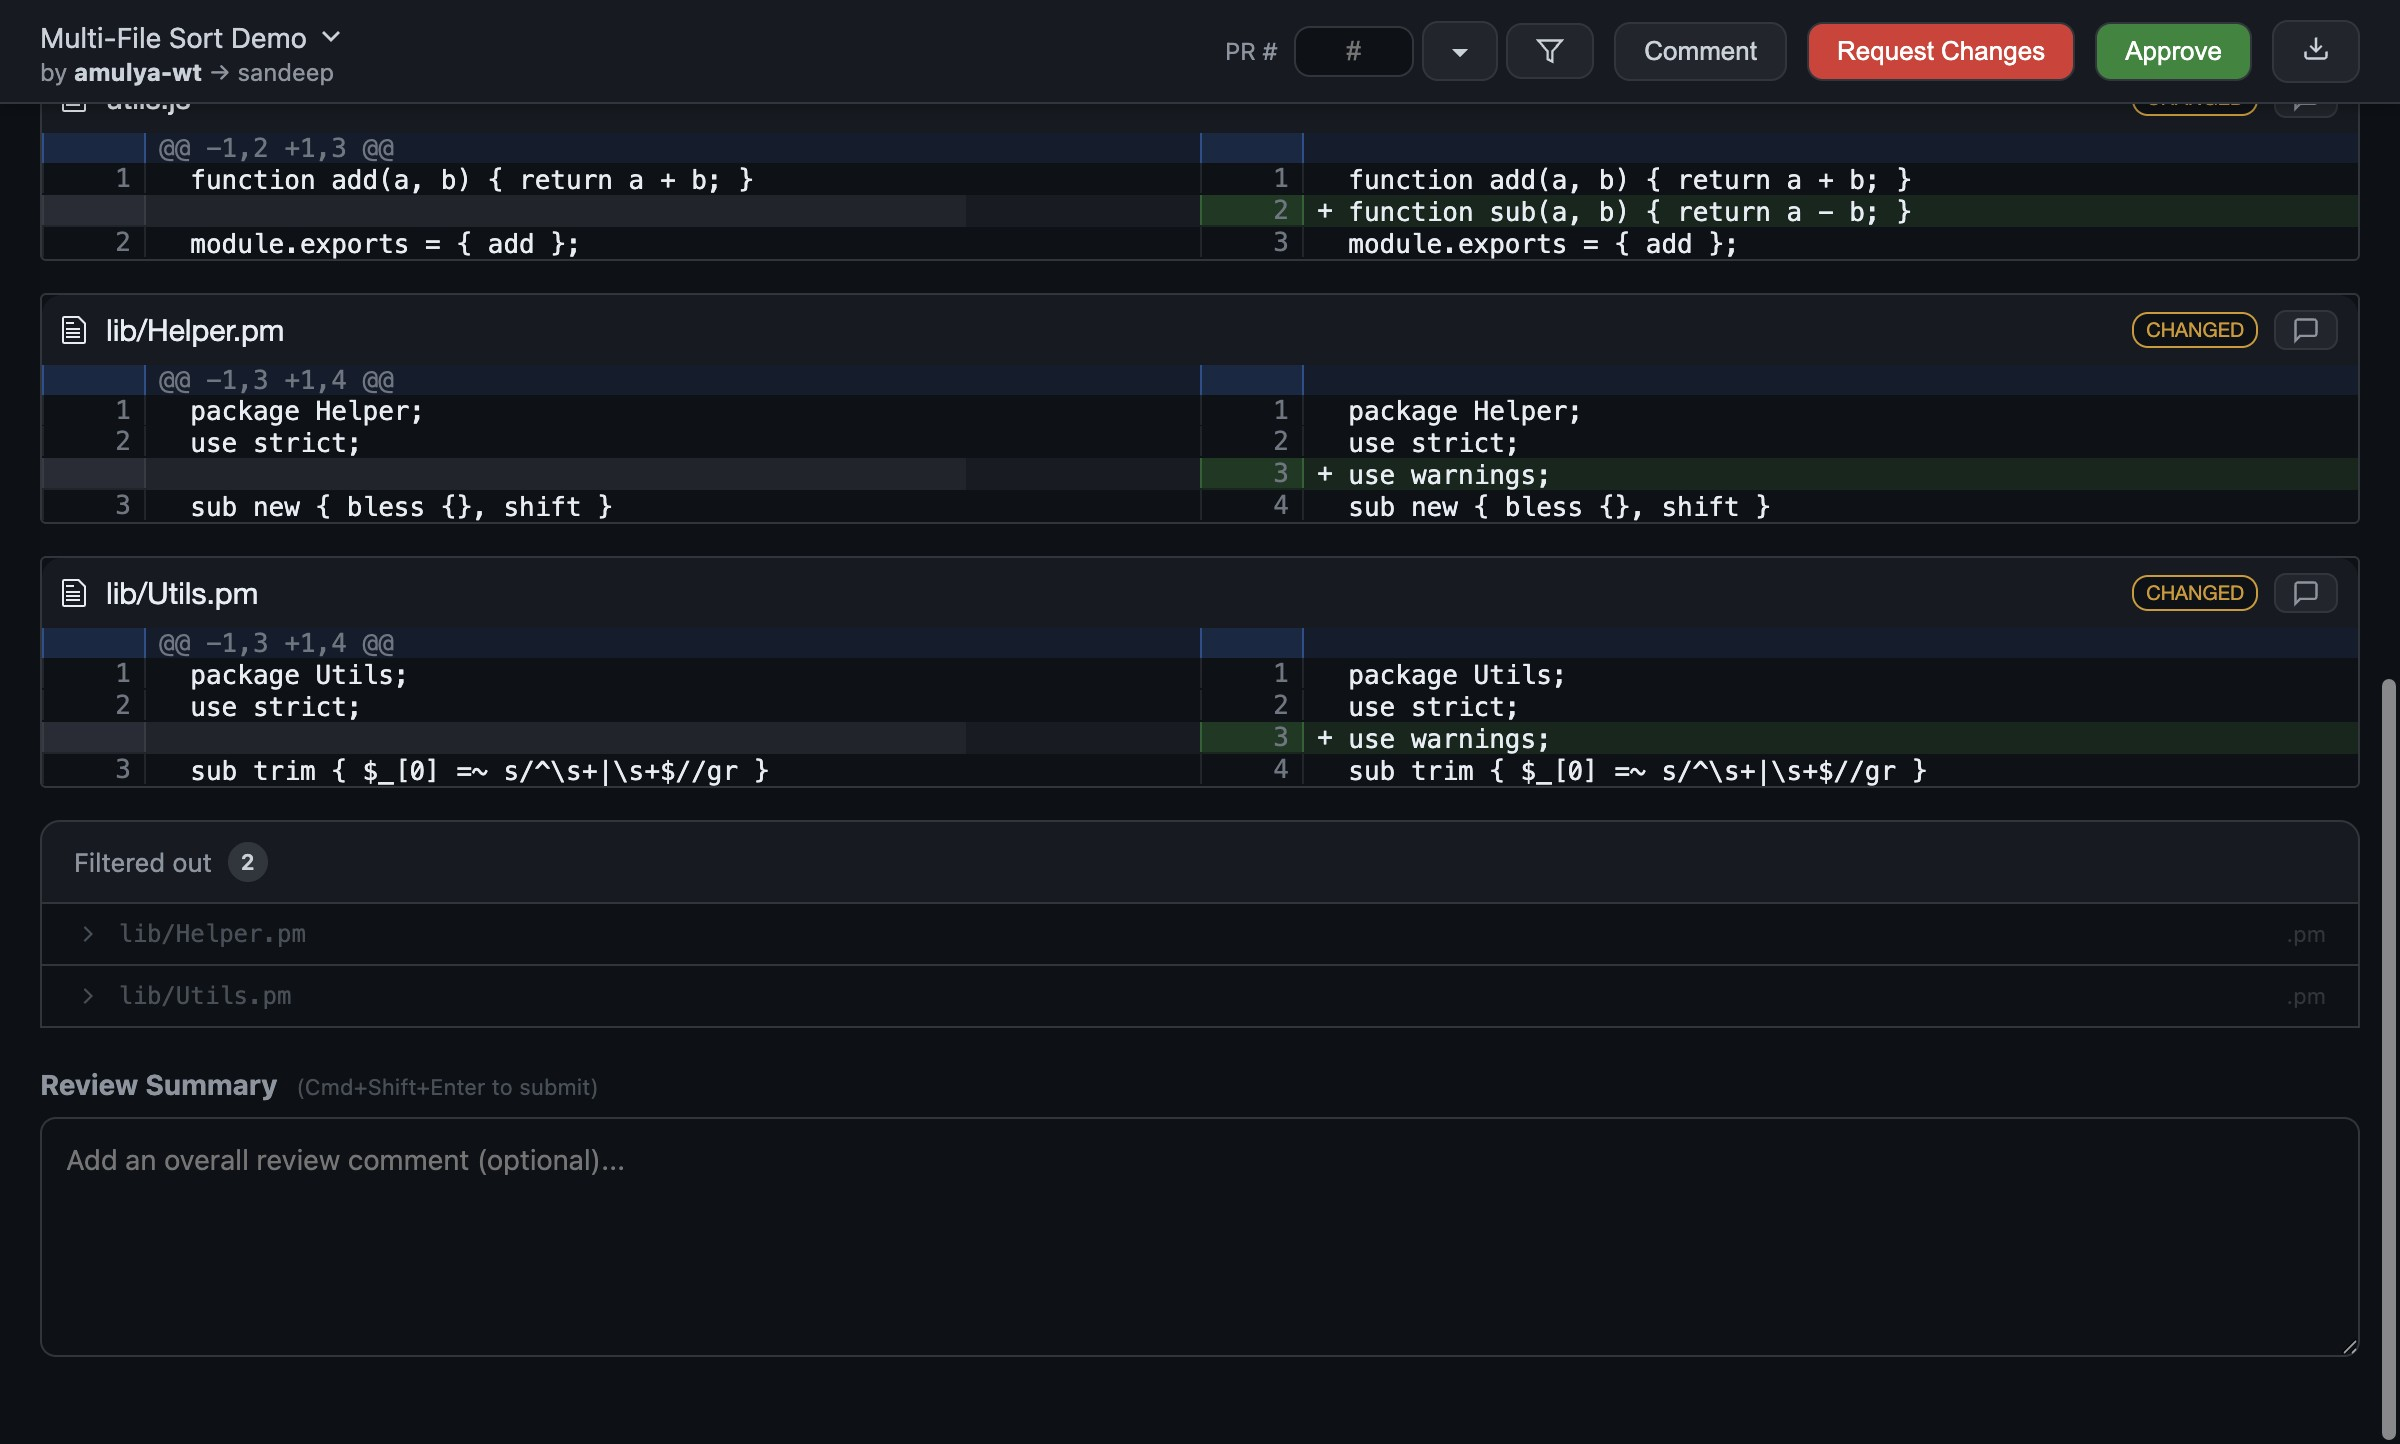
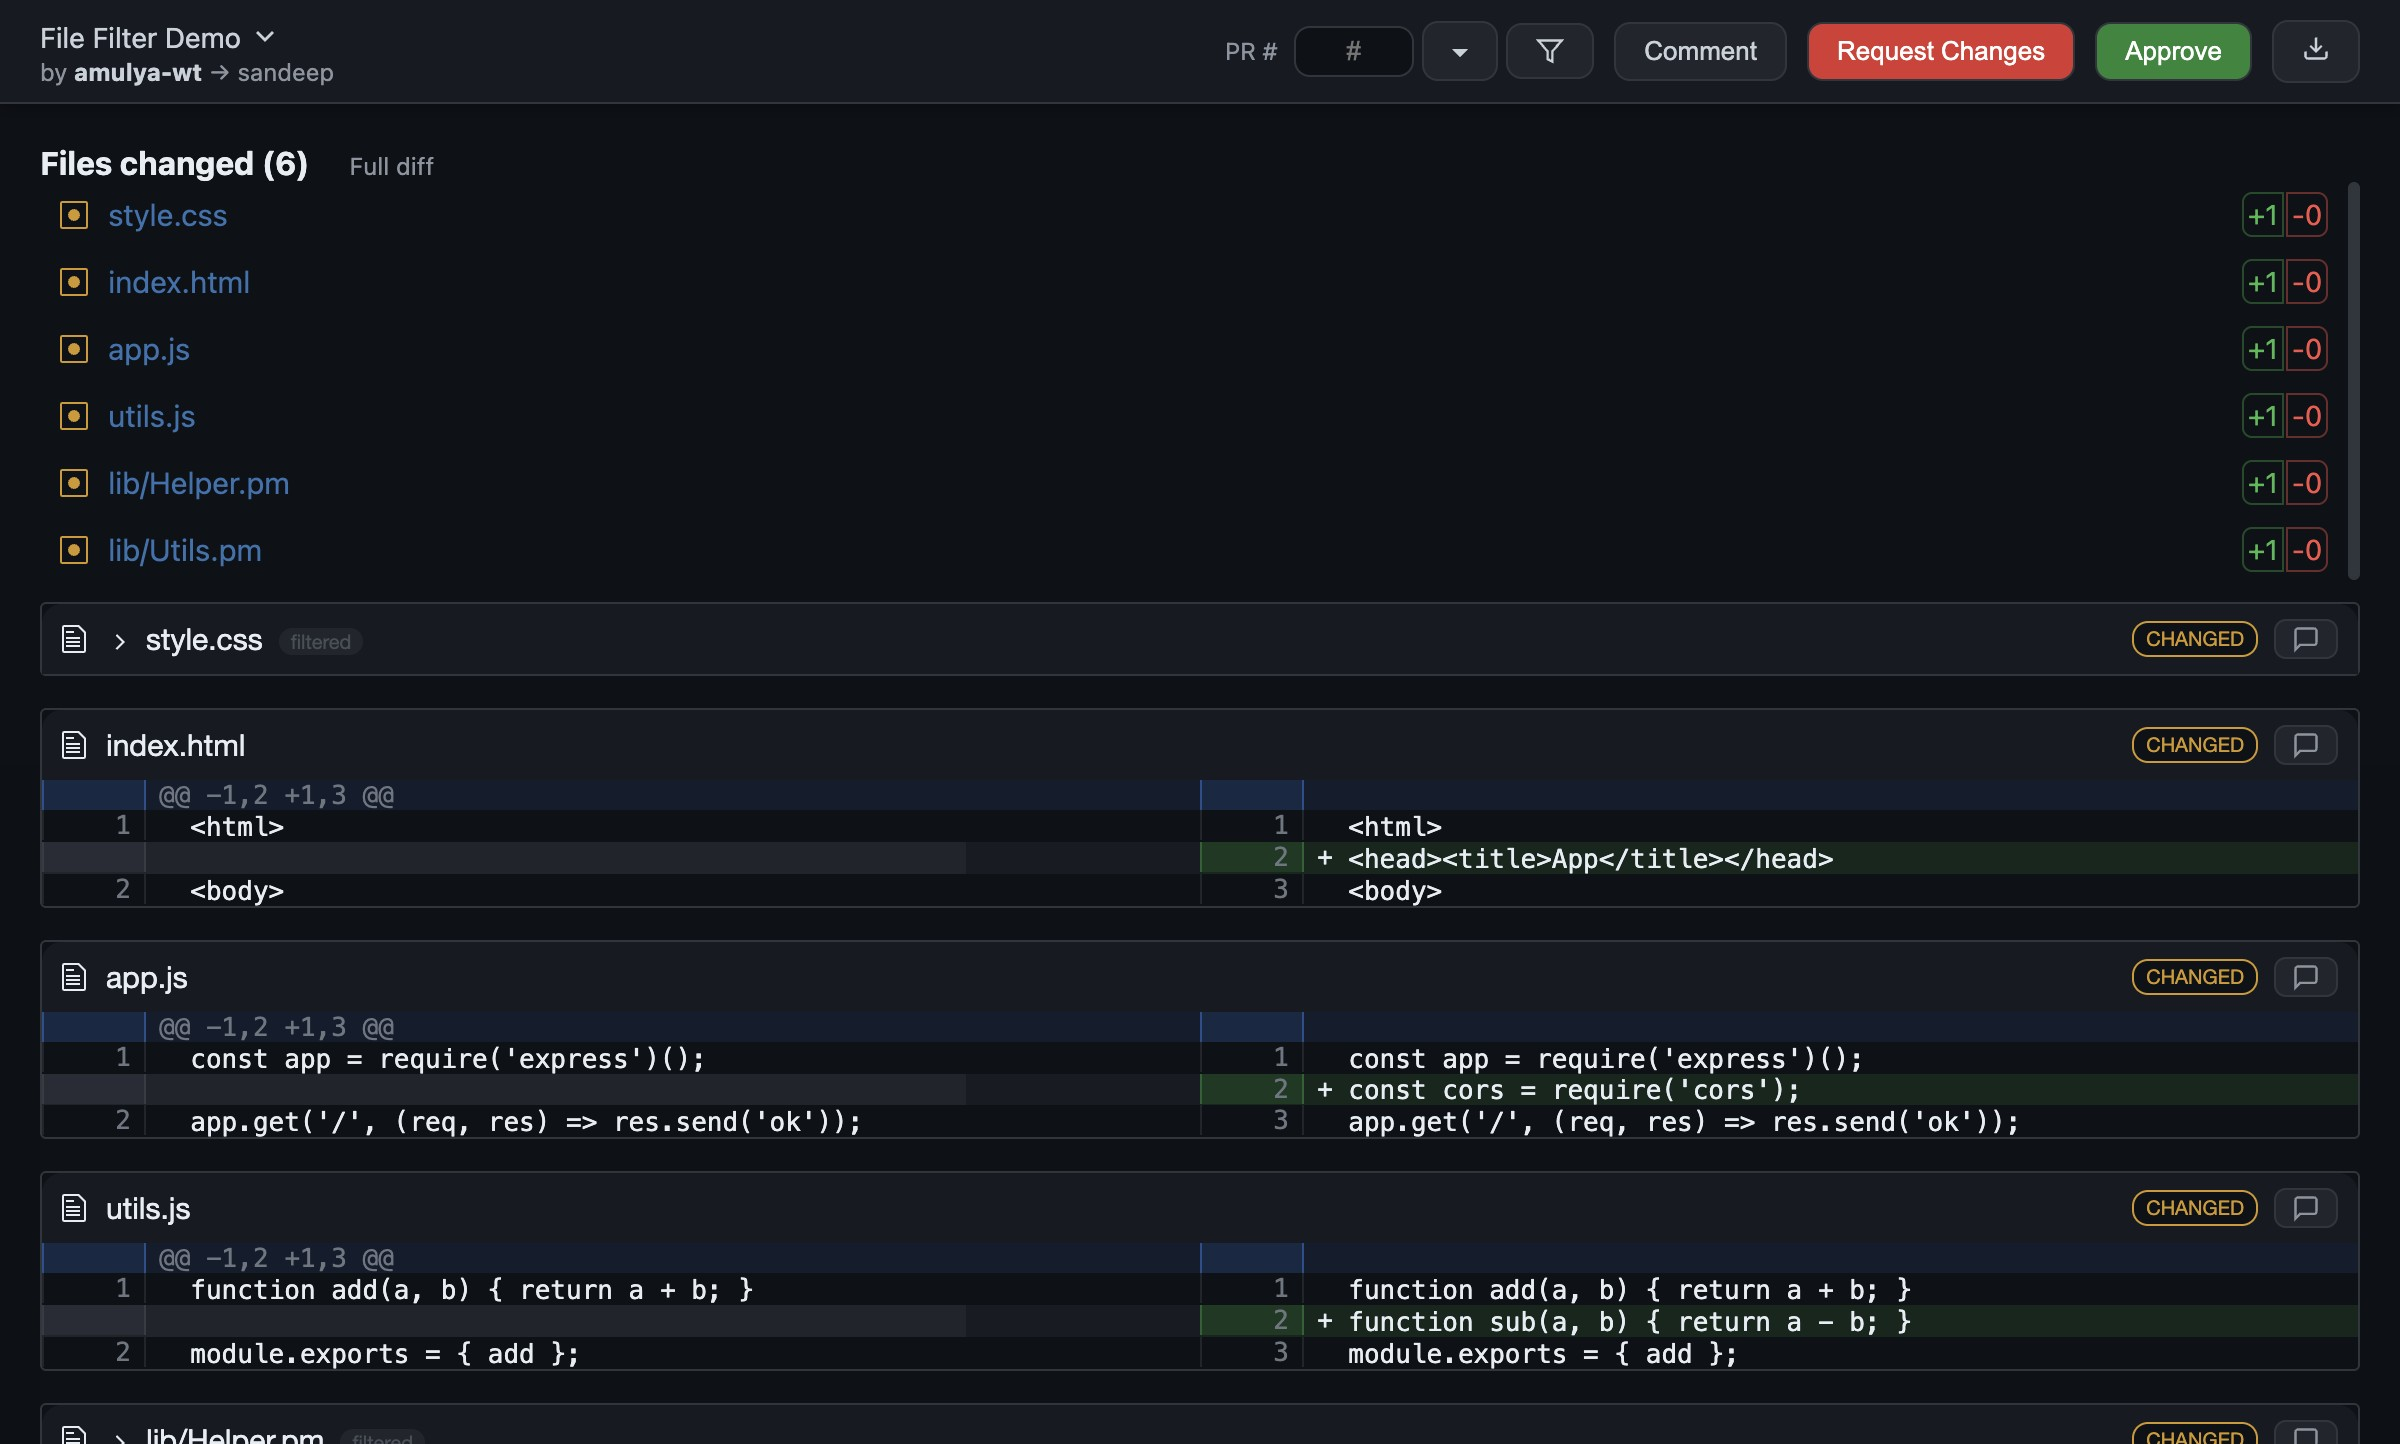
Collapse filtered files with same rendering as unfiltered
- All files rendered by diff2html (sorted by extension)
- Filtered files collapsed by default (only header visible)
- SVG chevron toggle icon matches PR description style
- 'filtered' badge on collapsed file headers
- Expanding shows full diff with comment support
- Fixes: hide .d2h-files-diff (both sides) not .d2h-diff-table
- 57/57 tests passing

diff --git a/renderer.js b/renderer.js
@@ -1418,11 +1418,11 @@ const originalLoadDiff = typeof loadDiff !== 'undefined' ? loadDiff : null;
 function renderFilteredDiff() {
   if (!currentDiffContent) return;
 
-  // Parse diff and filter by extensions
-  const { filtered: filteredDiff, excluded: excludedFiles } = filterDiffByExtensions(currentDiffContent, activeExtensions);
+  // Always render ALL files — sorted by extension
+  const sortedDiff = sortDiffByExtension(currentDiffContent);
 
-  // Use diff2html to render
-  const diff2htmlUi = new Diff2HtmlUI(document.getElementById('diff-container'), filteredDiff, {
+  // Use diff2html to render everything
+  const diff2htmlUi = new Diff2HtmlUI(document.getElementById('diff-container'), sortedDiff, {
     drawFileList: true,
     matching: 'lines',
     outputFormat: 'side-by-side',
@@ -1435,65 +1435,57 @@ function renderFilteredDiff() {
   addLineCommentButtons();
   addFileCommentButtons();
 
-  // Append collapsed excluded files at the bottom
-  appendCollapsedFilteredFiles(excludedFiles);
+  // Determine which extensions are excluded
+  const allExts = extractExtensionsFromDiff(currentDiffContent);
+  const excludedExts = activeExtensions ? allExts.filter(e => !activeExtensions.includes(e)) : [];
+
+  // Collapse filtered-out file wrappers
+  if (excludedExts.length > 0) {
+    collapseFilteredFiles(excludedExts);
+  }
 }
 
-// Render collapsed entries for filtered-out files
-function appendCollapsedFilteredFiles(excludedFiles) {
-  const container = document.getElementById('diff-container');
-  // Remove previous collapsed section if any
-  const existing = container.querySelector('.collapsed-files-section');
-  if (existing) existing.remove();
+// Collapse files matching excluded extensions — same diff2html rendering,
+// just hidden by default with a toggle icon on the header
+function collapseFilteredFiles(excludedExts) {
+  const fileWrappers = diffContainer.querySelectorAll('.d2h-file-wrapper');
+  for (const wrapper of fileWrappers) {
+    const fileNameEl = wrapper.querySelector('.d2h-file-name');
+    if (!fileNameEl) continue;
+    const fileName = fileNameEl.textContent.trim();
+    const ext = fileName.includes('.') ? '.' + fileName.split('.').pop() : '';
+    if (!excludedExts.includes(ext)) continue;
 
-  if (!excludedFiles || excludedFiles.length === 0) return;
+    // Collapse: hide the diff content area, add toggle icon to header
+    const header = wrapper.querySelector('.d2h-file-header');
+    const diffContent = wrapper.querySelector('.d2h-files-diff');
+    if (!header || !diffContent) continue;
 
-  const section = document.createElement('div');
-  section.className = 'collapsed-files-section';
-  section.innerHTML = `
-    <div class="collapsed-files-header">
-      <span>Filtered out</span>
-      <span class="count">${excludedFiles.length}</span>
-    </div>
-    ${excludedFiles.map((f, i) => `
-      <div class="collapsed-file-item" data-index="${i}" title="${f.name}">
-        <span class="toggle-icon"><svg width="14" height="14" viewBox="0 0 24 24" fill="none" stroke="currentColor" stroke-width="2"><path d="M6 9l6 6 6-6"/></svg></span>
-        <span class="file-path">${f.name}</span>
-        <span class="file-ext">${f.ext}</span>
-      </div>
-      <div class="collapsed-file-diff" data-index="${i}"></div>
-    `).join('')}
-  `;
-  container.appendChild(section);
+    diffContent.style.display = 'none';
 
-  // Attach click handlers
-  section.addEventListener('click', (e) => {
-    const item = e.target.closest('.collapsed-file-item');
-    if (!item) return;
+    // Add toggle icon (same SVG chevron as PR description toggle)
+    const icon = document.createElement('span');
+    icon.className = 'filtered-toggle-icon';
+    icon.innerHTML = '<svg width="14" height="14" viewBox="0 0 24 24" fill="none" stroke="currentColor" stroke-width="2"><path d="M6 9l6 6 6-6"/></svg>';
+    icon.style.cssText = 'cursor:pointer;margin-right:6px;display:inline-flex;align-items:center;transition:transform 0.2s;transform:rotate(-90deg);vertical-align:middle;';
+    header.style.cursor = 'pointer';
+    fileNameEl.insertBefore(icon, fileNameEl.firstChild);
 
-    const idx = item.dataset.index;
-    const diffPanel = section.querySelector(`.collapsed-file-diff[data-index="${idx}"]`);
-    if (!diffPanel) return;
+    // Add "filtered" indicator
+    const badge = document.createElement('span');
+    badge.className = 'filtered-badge';
+    badge.textContent = 'filtered';
+    badge.style.cssText = 'font-size:10px;color:#484f58;margin-left:8px;padding:1px 6px;background:#21262d;border-radius:10px;vertical-align:middle;';
+    fileNameEl.appendChild(badge);
 
-    const isExpanded = item.classList.toggle('expanded');
-    if (isExpanded) {
-      diffPanel.style.display = 'block';
-      // Render diff on first expand (lazy)
-      if (!diffPanel.dataset.rendered) {
-        const fileDiff = excludedFiles[idx].diff;
-        const diff2htmlUi = new Diff2HtmlUI(diffPanel, fileDiff, {
-          drawFileList: false,
-          matching: 'lines',
-          outputFormat: 'side-by-side',
-          colorScheme: 'dark'
-        });
-        diff2htmlUi.draw();
-        diffPanel.dataset.rendered = 'true';
-      }
-    } else {
-      diffPanel.style.display = 'none';
-    }
-  });
+    // Click handler on header to toggle
+    header.addEventListener('click', () => {
+      const isHidden = diffContent.style.display === 'none';
+      diffContent.style.display = isHidden ? '' : 'none';
+      icon.style.transform = isHidden ? 'rotate(0deg)' : 'rotate(-90deg)';
+      if (badge) badge.style.display = isHidden ? 'none' : '';
+    });
+  }
 }
 
 // Filter diff content by file extensions

diff --git a/test.js b/test.js
@@ -459,9 +459,9 @@ async function runTests() {
   assert('New preference fields exist', allNewFieldsExist,
     `missing: ${newPrefFields.filter(f => !f.exists).map(f => f.id).join(', ') || 'none'}`);
 
-  // TEST: Collapsed files section structure exists (renderFilteredDiff creates it)
+  // TEST: Collapsed files function exists (collapseFilteredFiles)
   const collapsedClassExists = await mainWindow.webContents.executeJavaScript(
-    `typeof appendCollapsedFilteredFiles === 'function'`
+    `typeof collapseFilteredFiles === 'function'`
   );
   assert('Collapsed files function exists', collapsedClassExists);
 